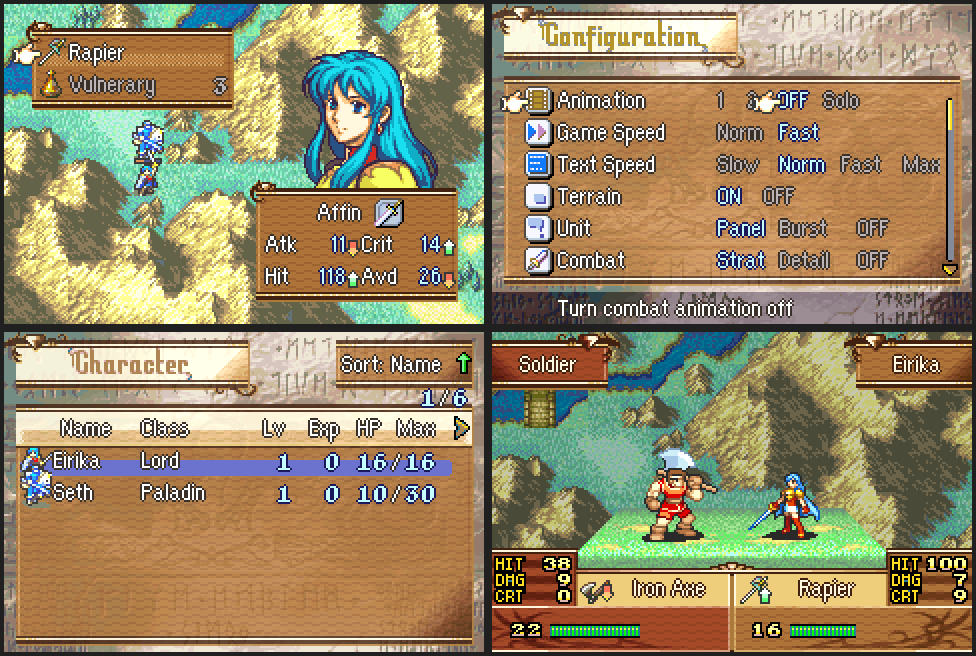
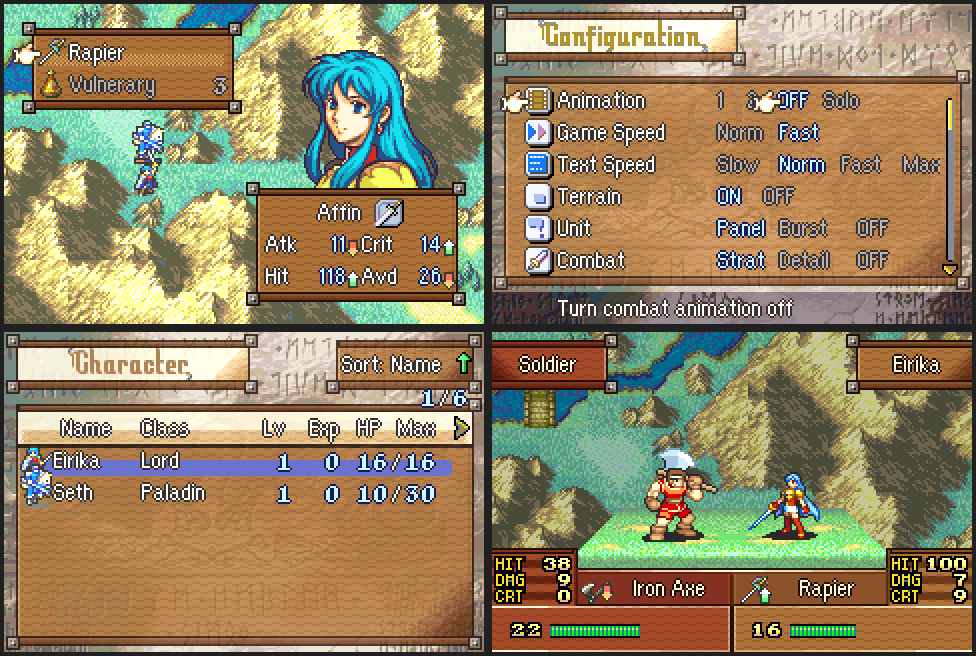
Give the Wood VeslyUI style its own frame
The wood style used to recolour vanilla's frame, so it kept the gold bars, scroll curls and gem crests. generate_wood.py now redraws the frame inside vanilla's tile layout:

- Trim bars become dark wooden beams, shaded by position across the bar.
- Every window edge gets a black outline.
- Curl and crest tiles become the plain tile of the same role. This covers the battle name plate crest, the HP panel scrollwork and the item box gem.
- Window and name plate corners get a riveted iron cap.

Trim palette entries 2 and 3 are now iron for the caps. Docs and the preview image are updated.

Claude-Session: https://claude.ai/code/session_01Tw4Msv6aWGsnaGTgRodNJ7

diff --git a/Kernel/Wizardry/VeslyUI/png/Wood/generate_wood.py b/Kernel/Wizardry/VeslyUI/png/Wood/generate_wood.py
@@ -2,10 +2,14 @@
 """
 Build the Wood VeslyUI style from the vanilla UI graphics in ../Vanilla.
 
-Each vanilla image keeps its tile layout and palette indices, so the game's
-tilemaps still line up. Two things change:
+Each vanilla image keeps its tile layout and window outline, so the game's
+tilemaps still line up. Everything drawn on top of that changes:
   * the palettes: oak / mahogany / moss-stained / weathered wood instead of
-    vanilla's blue / red / green / sepia, and brass instead of gold trim;
+    vanilla's blue / red / green / sepia;
+  * the frame: vanilla's gold bars with a white stripe become dark wooden
+    beams with a black outline, and every window edge gets that outline;
+  * the ornaments: the gold scroll curls and gem crests are removed, and
+    window corners get square iron caps with a rivet instead;
   * a wood-grain pattern on the fill colours. The pattern repeats every 8x8
     tile, so tiles the game repeats side by side join into continuous grain.
 
@@ -34,7 +38,9 @@ def rgb(text):
 # Menu palette index roles (vanilla gUiFramePaletteA):
 #   0 backdrop, 1 white, 2 light trim, 3 mid trim, 4 dark trim,
 #   5-9 light fill ramp (light -> dark), 10-15 frame ramp (light -> dark).
-TRIM = ["7080A0", "F8F0D8", "E8C878", "A87838", "402010"]
+# Wood uses 2 and 3 only for iron (corner caps), and 4 as the outline.
+TRIM = ["7080A0", "F8F0D8", "B4ACA0", "706860", "24140A"]
+W, L, M, D = 1, 2, 3, 4
 
 WOODS = [
     # Oak: window colour 0, player faction.
@@ -91,7 +97,7 @@ def is_grain_line(x, y):
     return (y - GRAIN_WAVE[x % 8]) % 4 == 1
 
 
-def add_grain(image, ramps):
+def add_grain(image, ramps, skip=frozenset()):
     px = image.load()
     lookup = {}
     for ramp in ramps:
@@ -101,11 +107,199 @@ def add_grain(image, ramps):
     for y in range(image.height):
         for x in range(image.width):
             index = px[x, y]
-            if index not in lookup or not is_grain_line(x, y):
+            if index not in lookup or not is_grain_line(x, y) or (x, y) in skip:
                 continue
             ramp, i = lookup[index]
             # One step darker; the darkest shade steps lighter instead.
             px[x, y] = ramp[i + 1] if i + 1 < len(ramp) else ramp[i - 1]
+
+
+# --- Frame redraw -----------------------------------------------------------
+# Tile numbers below are positions in the 32x4 vanilla frame sheet
+# (gUiFrameImage); DrawUiFrame's models in the decomp's uiutils.c name the
+# corners and edges.
+
+# Ornament tiles become a plain tile with the same role.
+PLAIN_COPIES = {
+    0x02: 0x03, 0x07: 0x06, 0x08: 0x09,              # window top-left, style 0
+    0x0C: 0x0B, 0x0D: 0x0E,                          # window top-left, style 2
+    0x11: 0x03, 0x12: 0x03, 0x13: 0x03,              # title plate crest
+    0x14: 0x06, 0x15: 0x09, 0x16: 0x09,              # title plate curl, dark
+    0x17: 0x0B, 0x18: 0x0E, 0x19: 0x0E,              # title plate curl, light
+    0x31: 0x03, 0x32: 0x03, 0x33: 0x03,              # crest
+    0x1D: 0x1C, 0x1E: 0x1C,                          # bottom bar curl
+}
+
+# Corner tiles: where the 7x7 iron cap goes in the tile, and whether the tile
+# is cleared first (corners with a transparent margin are redrawn as just the
+# cap; full-tile corners keep their beam under it).
+CORNERS = {
+    0x01: (1, 1, True), 0x10: (1, 1, True),          # top left
+    0x05: (0, 1, True),                              # top right
+    0x1A: (1, 0, True),                              # bottom left
+    0x21: (0, 0, True), 0x1F: (0, 0, True),          # bottom right
+    0x72: (0, 0, False), 0x74: (1, 0, False),        # style 1, no margin
+    0x77: (0, 1, False), 0x79: (1, 1, False),
+}
+
+# The battle frame sheet (gUnknown_08801C14, 17 tiles wide) reuses the
+# window art: a name box with a crest, and scrollwork engraved on the HP panel.
+def battle_tile(col, row):
+    return row * 17 + col
+
+
+BATTLE_COPIES = {
+    battle_tile(7, 0): battle_tile(1, 0),            # crest -> top bar
+    battle_tile(8, 0): battle_tile(1, 0),
+    battle_tile(9, 0): battle_tile(1, 0),
+    battle_tile(10, 0): battle_tile(4, 0),           # curl -> left edge
+}
+BATTLE_CORNERS = {
+    battle_tile(6, 0): (1, 1, True),                 # name box corners
+    battle_tile(3, 0): (0, 1, True),
+    battle_tile(11, 0): (1, 0, True),
+    battle_tile(15, 0): (0, 0, True),
+}
+# Gem between the two item boxes: keep only the bar under it.
+BATTLE_GEM = [battle_tile(8, 1), battle_tile(9, 1)]
+# HP panel scrollwork: shaded wood becomes plain board.
+BATTLE_SCROLLWORK = (
+    [battle_tile(c, 2) for c in list(range(3, 8)) + list(range(13, 16))]
+    + [battle_tile(c, 3) for c in [0, 1] + list(range(3, 16))]
+)
+
+CAP = [
+    "DDDDDDD",
+    "DLLLLMD",
+    "DLMLMMD",
+    "DLLWMMD",
+    "DLMMDMD",
+    "DMMMMMD",
+    "DDDDDDD",
+]
+CAP_INDEX = {"D": D, "L": L, "M": M, "W": W}
+
+
+def beam(n, i):
+    """Colour of position i across a beam n pixels thick: outlined dark wood."""
+    if i == 0 or i == n - 1:
+        return D
+    inner = {3: [12], 4: [12, 14], 5: [12, 13, 14]}.get(n)
+    if inner is None:
+        inner = [12, 13] + [14] * (n - 5) + [15]
+    return inner[i - 1]
+
+
+# Big solid trim areas (patterned plates) keep their pattern in wood tones.
+SOLID = {W: 11, L: 12, M: 15, D: 14}
+
+
+def redraw_tile(tile):
+    """Recolour one 8x8 tile (list of 8 lists). Returns the set of pixels drawn."""
+    def trim(x, y):
+        v = tile[y][x]
+        if v in (L, M, D):
+            return True
+        if v != W:
+            return False
+        # White counts as trim only as a stripe between trim pixels.
+        vert = 0 < y < 7 and tile[y - 1][x] in (L, M, D) and tile[y + 1][x] in (L, M, D)
+        horz = 0 < x < 7 and tile[y][x - 1] in (L, M, D) and tile[y][x + 1] in (L, M, D)
+        return vert or horz
+
+    mask = [[trim(x, y) for x in range(8)] for y in range(8)]
+    out = [row[:] for row in tile]
+    drawn = set()
+    for y in range(8):
+        for x in range(8):
+            if not mask[y][x]:
+                continue
+            y0 = y
+            while y0 > 0 and mask[y0 - 1][x]:
+                y0 -= 1
+            y1 = y
+            while y1 < 7 and mask[y1 + 1][x]:
+                y1 += 1
+            x0 = x
+            while x0 > 0 and mask[y][x0 - 1]:
+                x0 -= 1
+            x1 = x
+            while x1 < 7 and mask[y][x1 + 1]:
+                x1 += 1
+            lv, lh = y1 - y0 + 1, x1 - x0 + 1
+            if lv >= 6 and lh >= 6:
+                out[y][x] = SOLID[tile[y][x]]
+            elif lv < lh:
+                out[y][x] = beam(lv, y - y0)
+            else:
+                out[y][x] = beam(lh, x - x0)
+            drawn.add((x, y))
+
+    # Outline every edge that meets the transparent backdrop.
+    for y in range(8):
+        for x in range(8):
+            if not out[y][x]:
+                continue
+            for dx, dy in ((1, 0), (-1, 0), (0, 1), (0, -1)):
+                nx, ny = x + dx, y + dy
+                if 0 <= nx < 8 and 0 <= ny < 8 and tile[ny][nx] == 0:
+                    out[y][x] = D
+                    drawn.add((x, y))
+                    break
+    tile[:] = out
+    return drawn
+
+
+def get_tile(px, t, tiles_wide):
+    tx, ty = (t % tiles_wide) * 8, (t // tiles_wide) * 8
+    return [[px[tx + x, ty + y] for x in range(8)] for y in range(8)]
+
+
+def put_tile(px, t, tiles_wide, tile):
+    tx, ty = (t % tiles_wide) * 8, (t // tiles_wide) * 8
+    for y in range(8):
+        for x in range(8):
+            px[tx + x, ty + y] = tile[y][x]
+
+
+def remove_specks(tile):
+    """Clear the last few pixels of a curl that spilled into a fill tile."""
+    flat = [v for row in tile for v in row]
+    if flat.count(10) >= 56 and all(v >= 10 or v == D for v in flat):
+        for row in tile:
+            row[:] = [10] * 8
+
+
+def redraw_frame(image, corners=None, copies=None, plain=(), gems=()):
+    """Redraw trim and outlines in every tile; returns pixels to keep grain off."""
+    corners = corners or {}
+    copies = copies or {}
+    px = image.load()
+    wide = image.width // 8
+    count = wide * (image.height // 8)
+    original = [get_tile(px, t, wide) for t in range(count)]
+    keep = set()
+    for t in range(count):
+        tile = [row[:] for row in original[copies.get(t, t)]]
+        remove_specks(tile)
+        if t in plain:
+            tile = [[10 if v > 10 else v for v in row] for row in tile]
+        if t in gems:
+            tile = [[0] * 8 for _ in range(6)] + [[D] * 8, [W] * 8]
+        drawn = redraw_tile(tile)
+        if t in corners:
+            cx, cy, clear = corners[t]
+            if clear:
+                tile = [[0] * 8 for _ in range(8)]
+                drawn = set()
+            for y, line in enumerate(CAP):
+                for x, ch in enumerate(line):
+                    tile[cy + y][cx + x] = CAP_INDEX[ch]
+                    drawn.add((cx + x, cy + y))
+        put_tile(px, t, wide, tile)
+        tx, ty = (t % wide) * 8, (t // wide) * 8
+        keep |= {(tx + x, ty + y) for x, y in drawn}
+    return keep
 
 
 def save(image, palette, name):
@@ -123,23 +317,32 @@ def main():
     open(os.path.join(HERE, "Wood_BattlePal.pal"), "wb").write(to_gba(battle))
     open(os.path.join(HERE, "Wood_PrepItemsPal.pal"), "wb").write(to_gba([prep_items]))
 
+    menu_order = list(range(16))
     jobs = [
-        # vanilla name, palette for the PNG, grain ramps
-        ("Main", menu[0], GRAIN_RAMPS_UI),
-        ("Preps", menu[0], GRAIN_RAMPS_UI),
-        ("PrepsUseGfx", menu[0], GRAIN_RAMPS_UI),
-        ("PrepPopupWindow", menu[0], GRAIN_RAMPS_UI),
-        ("ShopGoldDisplay", menu[0], GRAIN_RAMPS_UI),
-        ("PrepItems", prep_items, GRAIN_RAMPS_PREP),
-        ("Battle", battle[0], GRAIN_RAMPS_UI),
-        ("Left", battle[0], GRAIN_RAMPS_UI),
-        ("LeftItem", battle[0], GRAIN_RAMPS_UI),
-        ("Right", battle[0], GRAIN_RAMPS_UI),
-        ("RightItem", battle[0], GRAIN_RAMPS_UI),
+        # vanilla name, palette for the PNG, grain ramps, index order or None
+        # to leave the art as is, then the frame tiles to replace
+        ("Main", menu[0], GRAIN_RAMPS_UI, menu_order, CORNERS, PLAIN_COPIES),
+        ("Preps", menu[0], GRAIN_RAMPS_UI, menu_order),
+        ("PrepsUseGfx", menu[0], GRAIN_RAMPS_UI, menu_order),
+        ("PrepPopupWindow", menu[0], GRAIN_RAMPS_UI, menu_order),
+        ("ShopGoldDisplay", menu[0], GRAIN_RAMPS_UI, menu_order),
+        ("PrepItems", prep_items, GRAIN_RAMPS_PREP, None),
+        ("Battle", battle[0], GRAIN_RAMPS_UI, BATTLE_ORDER, BATTLE_CORNERS, BATTLE_COPIES,
+         BATTLE_SCROLLWORK, BATTLE_GEM),
+        ("Left", battle[0], GRAIN_RAMPS_UI, BATTLE_ORDER),
+        ("LeftItem", battle[0], GRAIN_RAMPS_UI, BATTLE_ORDER),
+        ("Right", battle[0], GRAIN_RAMPS_UI, BATTLE_ORDER),
+        ("RightItem", battle[0], GRAIN_RAMPS_UI, BATTLE_ORDER),
     ]
-    for name, palette, ramps in jobs:
+    for name, palette, ramps, order, *tiles in jobs:
         image = Image.open(os.path.join(VANILLA, f"Vanilla_{name}.png")).copy()
-        add_grain(image, ramps)
+        keep = set()
+        if order is not None:
+            # Redraw in menu palette order, then map back to the image's own.
+            image.putdata([order[i] for i in image.tobytes()])
+            keep = redraw_frame(image, *tiles)
+            image.putdata([order.index(i) for i in image.tobytes()])
+        add_grain(image, ramps, keep)
         save(image, palette, f"Wood_{name}.png")
         print(f"Wood_{name}.png")
 

diff --git a/Documentation/Features/VeslyUIStyles.md b/Documentation/Features/VeslyUIStyles.md
@@ -26,7 +26,7 @@ Player-facing impact:
 - Prep screens, the prep popup, the funds/items sprites and the shop gold box follow the style.
 - Faction-coloured frames (battle forecast, status screen counters, world map) use the style's palettes.
 
-**Wood** is the newest style: plank-grain fills, brass trim, and four woods in place of vanilla's window colours.
+**Wood** is the newest style. Its windows are grained boards framed by dark, black-outlined wooden beams, with a riveted iron cap on each corner. Vanilla's gold bars, scroll curls and gem crests are gone, including the crest on the battle name plates and the scrollwork on the HP panel. Four woods replace vanilla's window colours.
 
 | Window colour | Vanilla | Wood | Faction it tints |
 |---------------|---------|------|------------------|
@@ -72,7 +72,14 @@ Each getter in `C_Code.c` indexes a 5-entry table by the style ID. A style that 
 
 ### Building the wood art
 
-`png/Wood/generate_wood.py` builds every wood file from the vanilla images in `png/Vanilla`. It keeps each image's palette indices, swaps in the wood palettes, and adds a wood-grain pattern to the fill colours. The pattern repeats every 8×8 tile, so repeated tiles join into continuous grain. The installer converts the PNGs with `Png2Dmp --lz77` at build time.
+`png/Wood/generate_wood.py` builds every wood file from the vanilla images in `png/Vanilla`. It keeps each image's tile layout and window outline, so the game's tilemaps still line up, and redraws what is inside:
+
+- Gold trim bars become beams: outlined, with shading set by each pixel's position across the bar.
+- Every edge that meets the transparent backdrop gets a black outline.
+- Ornament tiles (curls, crests, the battle gem) are replaced with the plain tile of the same role (`PLAIN_COPIES`, `BATTLE_COPIES`).
+- Corner tiles get the 7×7 iron cap (`CORNERS`, `BATTLE_CORNERS`, `CAP`).
+
+It then swaps in the wood palettes and adds a wood-grain pattern to the fill colours. The pattern repeats every 8×8 tile, so repeated tiles join into continuous grain. The installer converts the PNGs with `Png2Dmp --lz77` at build time.
 
 To retune the look, edit the colour lists at the top of the script and rerun it. `Png2Dmp` maps pixels by colour, so each PNG palette must keep 16 distinct colours (the script checks this).
 
